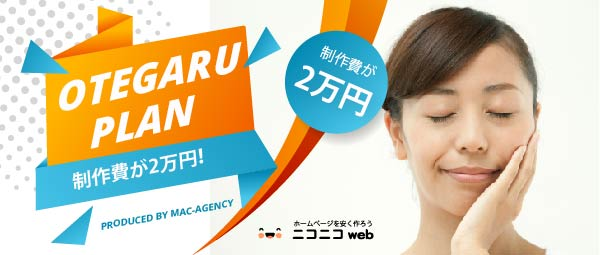
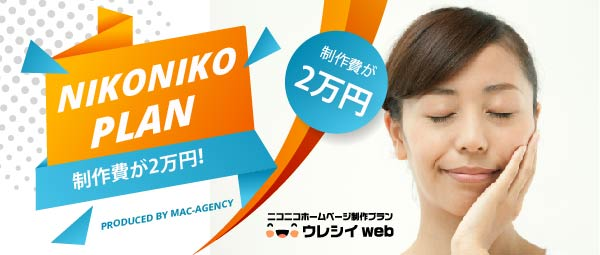
テンプレート修正画像修正

Changed region(s): [[0.09, 0.1647, 0.42, 0.4392], [0.42, 0.8235, 0.66, 0.9608]]

diff --git a/contact/index.html b/contact/index.html
@@ -371,7 +371,7 @@ window.addEventListener('load', function() {
             <div class="col-lg-6 col-12">
               <h3 class="h5">お手軽がいい</h3>
               <hr>
-              <p class="kaisetu_read">お手軽webプランは、その名の通り制作費が2万円ととてもお手軽価格で、シングルページ（１ページ）集約型だから原稿を考えるお客様にもご負担の少ないお手軽なプランとなっています。</p>
+              <p class="kaisetu_read">ニコニコホームページ制作プランは、その名の通り制作費が2万円ととてもお手軽価格で、シングルページ（１ページ）集約型だから原稿を考えるお客様にもご負担の少ないお手軽なプランとなっています。</p>
               
             </div>
             <div class="col-lg-6 col-12">
@@ -382,9 +382,10 @@ window.addEventListener('load', function() {
               <div class="media-body">
                 
                 <ul class="footer_list1">
-                  <li><a href="#">お気軽ホームページ制作プランについて</a></li>
-                  <li><a href="#">うれしいホームページ制作プラン</a></li>
-                  <li><a href="#">微笑みホームページ制作プランについて</a></li>
+                  <li><a href="#">ニコニコホームページ制作プランについて</a></li>
+                  <li><a href="#">ワクワクホームページ制作プラン</a></li>
+                  <li><a href="#">ドキドキホームページ制作プランについて</a></li>
+                  <li><a href="#">ブログホームページ制作プランについて</a></li>
                   <li><a href="#">料金</a></li>
                   <li><a href="#">ご用意いただきたいもの</a></li>
                   <li><a href="#">よくあるご質問</a></li>
